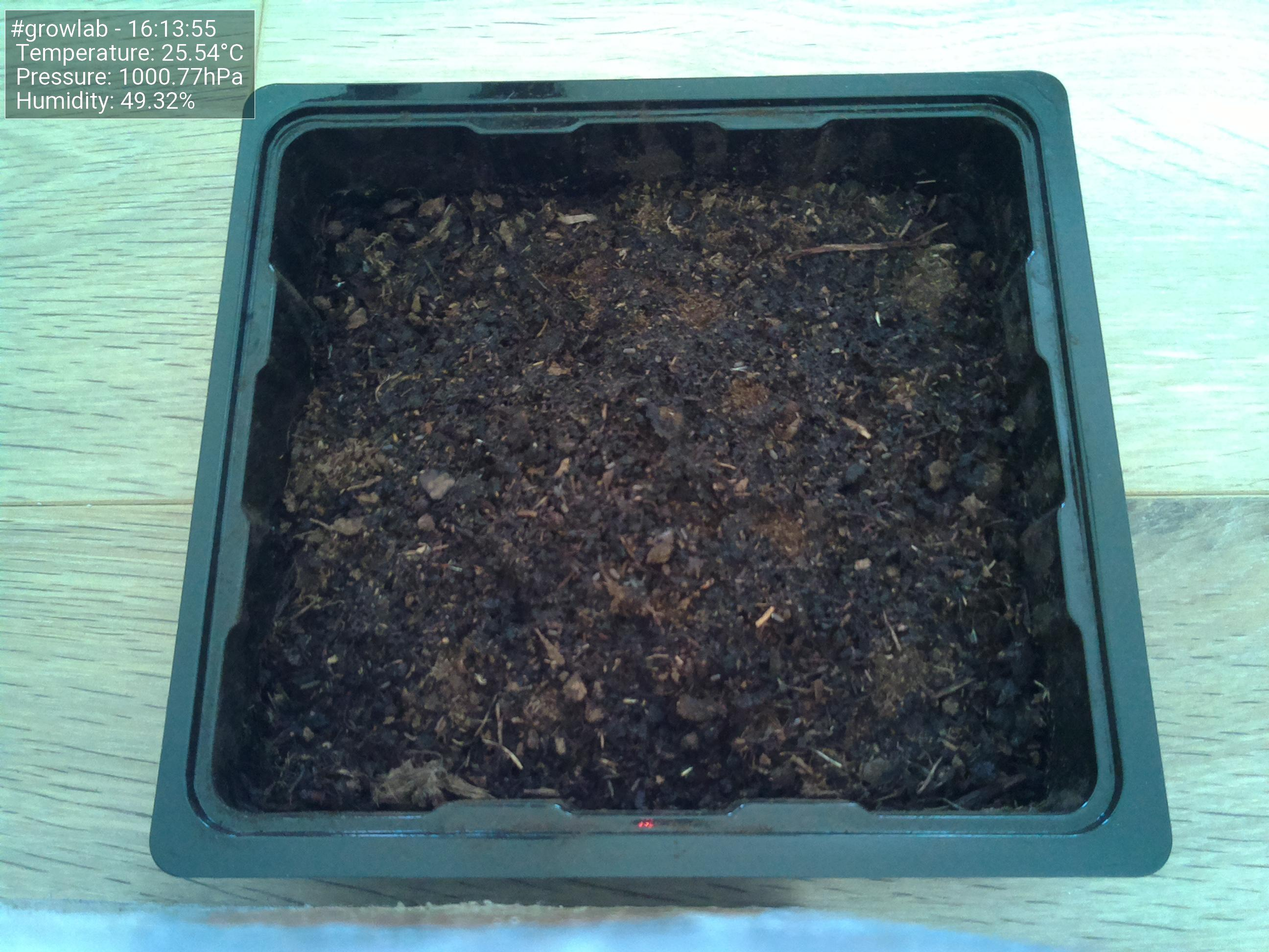
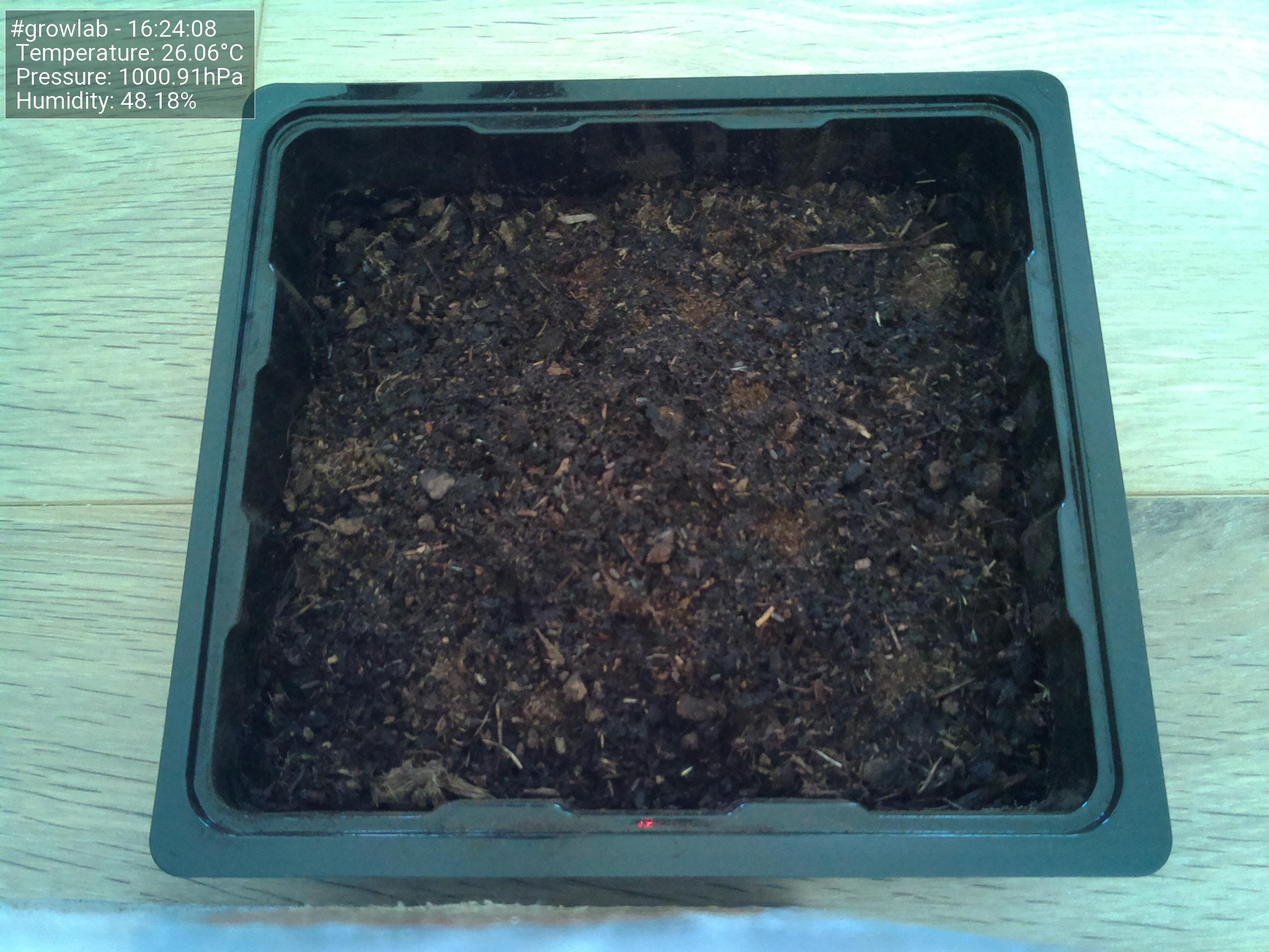
Update images at Wed 26 May 16:24:13 CEST 2021

diff --git a/docs/index.html b/docs/index.html
@@ -47,19 +47,19 @@
                         <tbody>
                             <tr>
                                 <td>Time</td>
-                                <td>16:13:55</td>
+                                <td>16:24:08</td>
                             </tr>
                             <tr>
                                 <td>Temperature</td>
-                                <td>25.54°C</td>
+                                <td>26.06°C</td>
                             </tr>
                             <tr>
                                 <td>Humidity</td>
-                                <td>49.32%</td>
+                                <td>48.18%</td>
                             </tr>
                             <tr>
                                 <td>Pressure</td>
-                                <td>1000.77hPa</td>
+                                <td>1000.91hPa</td>
                             </tr>
                         </tbody>
                     </table>
@@ -67,7 +67,7 @@
 
                 <h5>Latest image</h5>
                 <div style="width: 85%;">
-                            <img class="figure-img img-fluid rounded" src="./preview.jpg?uid=1622038439.7747185">
+                            <img class="figure-img img-fluid rounded" src="./preview.jpg?uid=1622039052.7297516">
                 </div>
             </div>
         </div>
